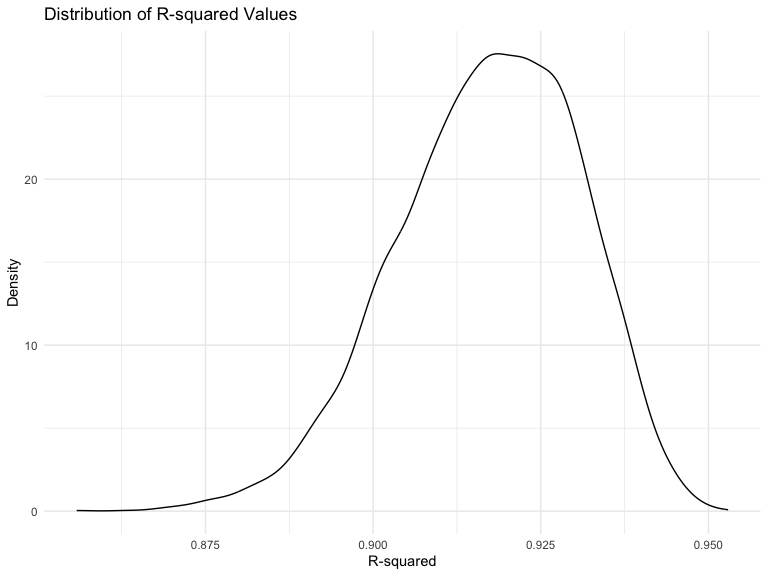
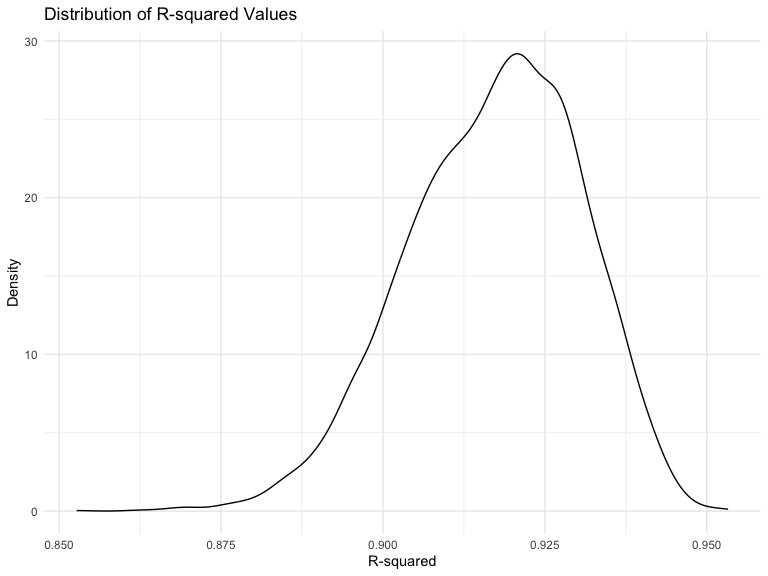
Editing the plot 2

diff --git a/p8105_hw6_sm5567.md b/p8105_hw6_sm5567.md
@@ -249,7 +249,7 @@ r_squared %>%
 
 | lower_limit | upper_limit |
 |------------:|------------:|
-|       0.889 |        0.94 |
+|        0.89 |        0.94 |
 
 - The 95% confidence interval for R^2 is (0.888, 0.941)
 
@@ -258,7 +258,7 @@ r_squared %>%
 ``` r
 log_estimate =
   weather_df %>%
-  modelr::bootstrap(n=5000) %>%
+  modelr::bootstrap(n=1000) %>%
   mutate(
     models = map(strap, ~lm(tmax ~ tmin + prcp, data = .x)),
     results = map(models, broom::tidy)) %>%
@@ -269,7 +269,7 @@ log_estimate =
     names_from = "term",
     values_from = "estimate") %>%
   mutate(
-    log_function = log(`(Intercept)` * tmin))
+    log_function = log(prcp * tmin))
 
 log_plot = log_estimate %>%
   ggplot(aes(x = log_function)) +
@@ -289,7 +289,8 @@ print(log_plot)
 
 ``` r
 log_estimate %>%
-  summarise(
+  drop_na() %>% 
+  summarize(
     lower_limit = quantile(log_function, 0.025),
     upper_limit = quantile(log_function, 0.975)) %>%
   knitr::kable(digits = 3)
@@ -297,7 +298,7 @@ log_estimate %>%
 
 | lower_limit | upper_limit |
 |------------:|------------:|
-|       2.055 |       2.137 |
+|       -8.75 |      -4.536 |
 
-- The 95% confidence interval for log(beta_0 \* beta_1) is (2.055 and
-  2.138)
+- The 95% confidence interval for log(beta_0 \* beta_1) is (-8.007 and
+  -4.615)
